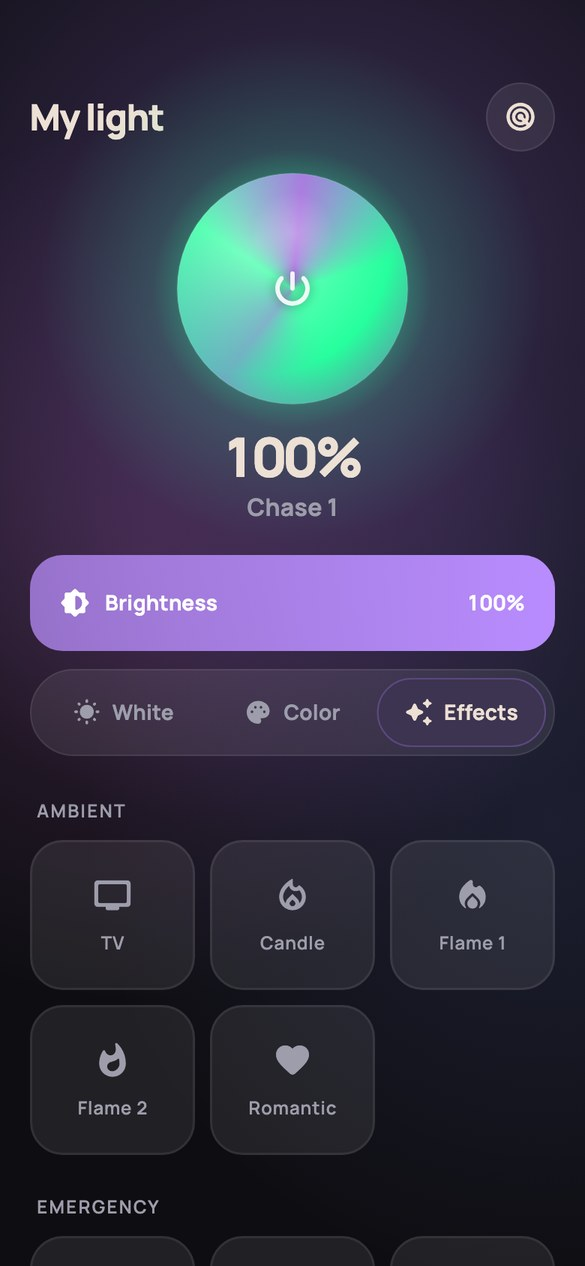
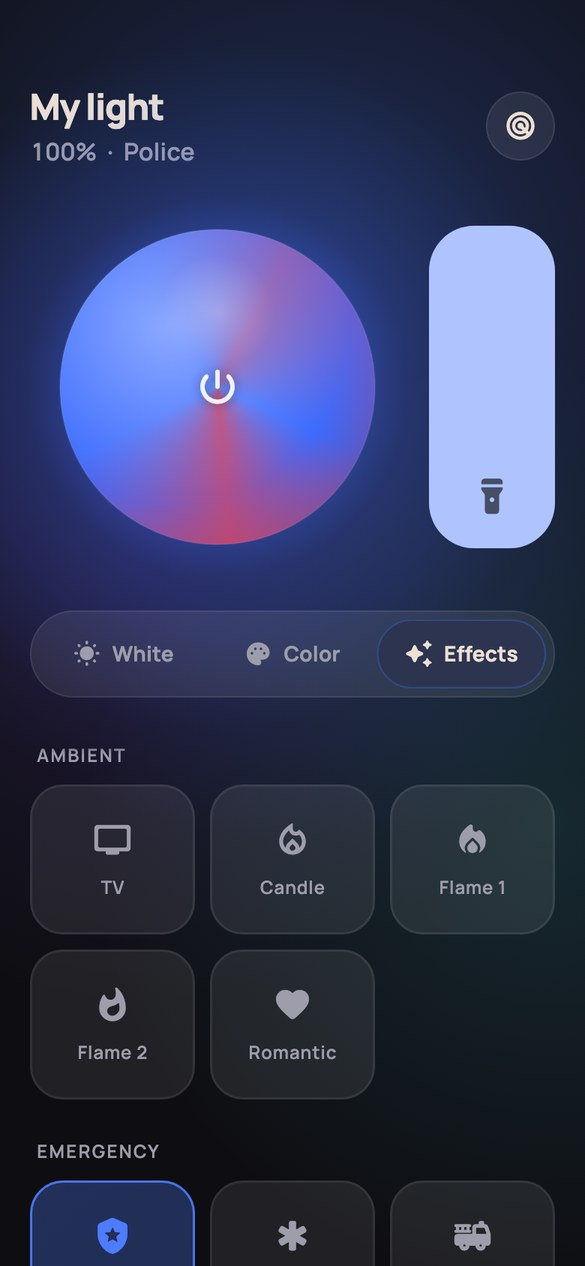
Lumen 1.0.0: refresh README screenshots and feature notes

diff --git a/README.md b/README.md
@@ -26,13 +26,14 @@ one bug worth mentioning: the stock app's code addresses "all groups" as 255 in 
 
 - **finds your light without setup codes.** lumen makes the light blink and asks if you saw it. if the light was moved off its default channel, it checks every channel and group until you say it turned red.
 - **white**: 2500 K to 9900 K, plus tungsten, neutral, daylight and cloudy presets.
-- **color**: a color pad for hue and saturation, a quick presets row, and a presets sheet with 12 built-in colors. you can save your own colors by name and delete them.
+- **color**: a color pad for hue and saturation, a quick presets row, and a presets sheet with 12 built-in colors. save your own by name. tap edit (or long-press any preset) to delete them, built-in ones too. deleted built-ins can be restored.
 - **effects**: all 24 effects the light has:
   - ambient: tv, candle, flame 1-2, romantic
   - emergency: police, ambulance, fire truck
   - flash & strobe: flash 1-2, strobe 1-3
   - party: chase 1-3, fireworks 1-3, club 1-2, music, wave 1-2
-- **brightness and power**: big brightness slider. tap the light on screen to turn the real one on or off.
+- **brightness**: a tall pill like the ios flashlight control. drag moves the level relative to your finger, it stretches when you pull past the ends, and there's a haptic tick every 10%. drag all the way down to turn the light off.
+- **power**: tap the light on screen to turn the real one on or off. it comes back at the last brightness.
 - **live preview**: the on-screen light glows in your color and plays a soft preview of the selected effect.
 - **remembers stuff**: your light, its last setting and your saved colors stay on the phone. open the app and the light goes back to how you left it.
 
@@ -131,7 +132,7 @@ lib/
       providers.dart      dependency graph (services -> repositories)
       models/             pure models: LightState, PairedLight, Effect, ColorPreset, ...
       theme/              theme, motion, light colors, effect previews
-      widgets/            shared widgets: light orb, color pad, sliders, ...
+      widgets/            shared widgets: light orb, brightness pill, color pad, ...
     services/             platform wrappers: ble (flutter_blue_plus), the native
                           broadcaster (method channel), SharedPreferences, hive
       protocol/           wire codecs (gatt frame, broadcast beacon)
